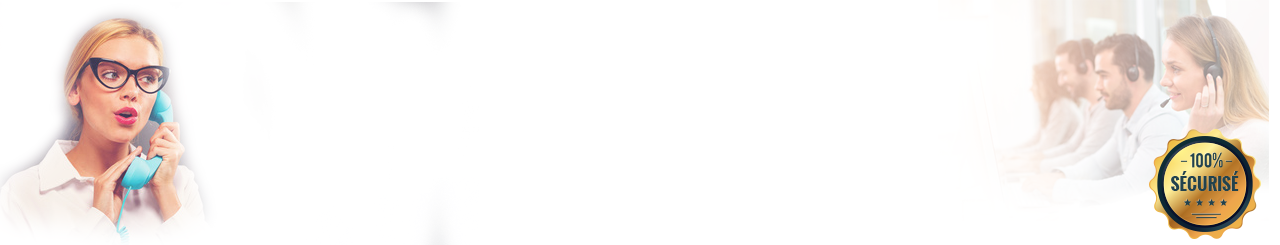
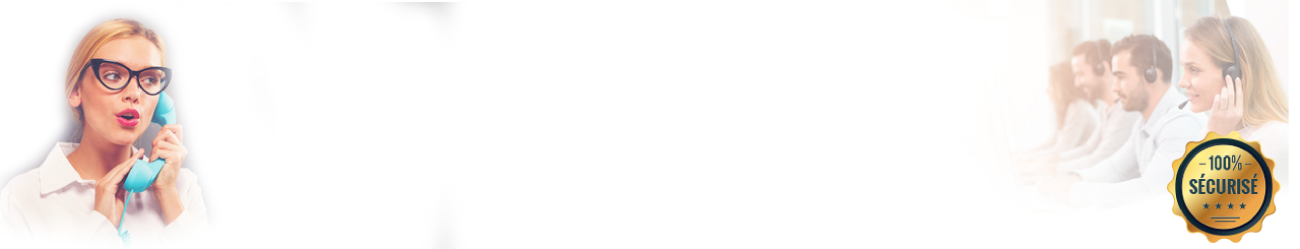
add flex slider + hotfix

diff --git a/css/rdv_web.css b/css/rdv_web.css
@@ -994,7 +994,7 @@ p.title-filled {
 }
 
 .header {
-    background: url(../images_landing/rdv/header.png) 0 0 no-repeat;
+    background: url(../images_landing/rdv/header.png) 15px 0 no-repeat;
     height: 240px;
     width: 100%;
     background-size: contain
@@ -1017,7 +1017,7 @@ p.title-filled {
 
 .avis {
     max-width: 1120px;
-    margin: 0px auto;
+    margin: 50px auto;
 }
 
 .avis p {
@@ -1027,7 +1027,8 @@ p.title-filled {
 }
 
 .avis img {
-    margin-left: 50px;
+    /*margin-left: 50px;*/
+    margin-left: 2em;
     max-width: 300px;
 }
 
@@ -1049,11 +1050,16 @@ p.title-filled {
     left: 20%;
 }
 
-.textItem,.imgItem {
+.textItem {
     position: absolute;
     display: none;
     padding-left: 15px;
 
+}
+
+.imgItem {
+    position: absolute;
+    padding-left: 15px;
 }
 
 .textItem.current,.imgItem.current {
@@ -1068,7 +1074,7 @@ p.title-filled {
 }
 
 .main-header {
-    max-width: 1224px;
+    max-width: 1271px;
     margin: 0 auto;
     width: 100%;
     clear: both;
@@ -1175,10 +1181,34 @@ select.form-control {
 .menu-rdv {
     background: #b83d56;
     padding: 10px;
+    margin-top: -8px;
 }
 
 .menu-content {
-    margin-left: 20%
+  text-align: center;
+}
+
+.menu-content a#tchat-online ,.menu-content a#tarot ,.menu-vm a{
+    color: #ffffff!important;
+}
+
+.menu-content a:hover,.menu-content a:active{
+    text-decoration: none!important;
+}
+
+.menu-vm a:hover,.menu-vm a:active {
+    text-decoration: none!important;
+    font-weight: bold!important;
+}
+
+.menu-content a#tchat-online:hover  span,.menu-content a#tchat-online:active span {
+    color: #ffffff!important;
+    text-decoration: none!important;
+}
+
+.menu-content a#tarot:hover span,.menu-content a#tarot:active span{
+    color: #ffffff!important;
+    text-decoration: none!important;
 }
 
 .menu-content span {
@@ -1195,7 +1225,7 @@ select.form-control {
 }
 
 .header-list {
-    margin-top: 15px;
+    margin-top: 25px;
 }
 
 .euro-min {
@@ -1208,7 +1238,7 @@ select.form-control {
 
 .euro {
     position: relative;
-    top: -8em;
+    top: -7em;
     left: -1em;
 }
 
@@ -1223,4 +1253,12 @@ select.form-control {
 .menuh-content .modal-header {
   padding: 0px!important;
   border-bottom: none!important;
+}
+
+/*********************SLIDER  *****/
+
+.splash-msg .flexslider {
+    background: none!important;
+    border: none!important;
+    margin: 0!important;
 }

diff --git a/js/rdv_web.js b/js/rdv_web.js
@@ -254,53 +254,21 @@ $(document).ready(function () {
         });
     });
 
+    $('.flexslider').flexslider({
+        animation: "slide",
+        directionNav: false,
+        controlNav: false,
+    });
 
-
-    setupRotator();
+    $("#tchat-online,#tarot").on("click",function () {
+     $(this).find("span").addClass("active").css("text-decoration","none");
+    });
 
     $("#close-btn").click(function () {
         $("#menuModal").modal("hide");
     });
 
 });
-
-function setupRotator()
-{
-    if($('.textItem').length > 1)
-    {
-        $('.textItem:first').addClass('current').hide().slideDown(500);
-        setInterval('textRotate()', 1000);
-        setInterval('imgAnim()', 1000);
-    }
-}
-
-function textRotate(){
-    var current = $('.text-rot > .current');
-    if(current.next().length == 0)
-    {
-        current.removeClass('current').slideUp(100);
-        $('.textItem:first').addClass('current').slideDown(500);
-    }
-    else
-    {
-        current.removeClass('current').slideUp(100);
-        current.next().addClass('current').hide().slideDown(500);
-    }
-}
-
-function imgAnim(){
-    var current = $('.img-rot > .current');
-    if(current.next().length == 0)
-    {
-        current.removeClass('current').slideUp(100);
-        $('.imgItem:first').addClass('current').slideDown(500);
-    }
-    else
-    {
-        current.removeClass('current').slideUp(100);
-        current.next().addClass('current').hide().slideDown(500);
-    }
-}
 
 
 

diff --git a/consultation-en-ligne-a.php b/consultation-en-ligne-a.php
@@ -47,13 +47,14 @@ $gclid = isset($_GET['gclid']) ? $_GET['gclid'] : '';
     <link href="rdv_web/css/bootstrap-datetimepicker.min_13.css" type="text/css"
           rel="stylesheet"/>
     <link href="rdv_web/css/additionnals_1.css" type="text/css" rel="stylesheet"/>
+    <link href="https://cdnjs.cloudflare.com/ajax/libs/flexslider/2.6.4/flexslider.min.css" type="text/css" rel="stylesheet"/>
 
     <!-----------------------end assets --------------------------------------------------------------------->
 
 </head>
 <body class="consultation-en-ligne">
 <div class="main-header">
-    <div class="header ">
+    <div class="header">
 
         <div class="header-content">
             <a href="www.myastro.fr">
@@ -64,7 +65,7 @@ $gclid = isset($_GET['gclid']) ? $_GET['gclid'] : '';
             <span class="header-txt" >
               &nbsp;&nbsp;&nbsp; &nbsp;&nbsp;&nbsp;&nbsp;&nbsp;&nbsp;&nbsp; &nbsp;&nbsp;&nbsp;&nbsp;&nbsp;&nbsp;&nbsp; &nbsp;&nbsp;&nbsp;&nbsp;&nbsp;&nbsp;&nbsp; &nbsp; Famille &nbsp;&nbsp;&nbsp; &nbsp;&nbsp;&nbsp;&nbsp; Argent </span>
 
-            <p class="header-list">
+            <ul class="header-list">
                 <li class="icone-recommanded"><span>Site 100% recommandé </span><p>
                 <li class="icone-consultation"><span>Consultation par telephone</span></li>
             </ul>
@@ -78,8 +79,8 @@ $gclid = isset($_GET['gclid']) ? $_GET['gclid'] : '';
     <div class="menu-rdv" >
         <div class="menu-content" >
         <a href="#"> <span class="active">PRENDRE RDV EN LIGNE</span></a>
-        <a href="#"><span>TCHAT EN LIGNE</span></a>
-        <a href="#"><span>TIRAGE DE TAROT</span></a>
+        <a href="#" id="tchat-online"><span>TCHAT EN LIGNE</span></a>
+        <a href="#" id="tarot"><span>TIRAGE DE TAROT</span></a>
         </div>
     </div>
 </div>
@@ -97,11 +98,8 @@ $gclid = isset($_GET['gclid']) ? $_GET['gclid'] : '';
                     <div class="img-rot euro">
 
                      <span class="imgItem">
-                      <img src="images_landing/rdv/euro-bis.png">  </span>
-                      <span class="imgItem">
-                      <img src="images_landing/rdv/euro-bis-2.png">
-                      </span>
-
+                       <img src="images_landing/rdv/piece-de-monnaie.gif">
+                     </span>
                      </div>
                 </div>
 
@@ -334,18 +332,20 @@ $gclid = isset($_GET['gclid']) ? $_GET['gclid'] : '';
 
 <div class="avis">
 
-    <div class="splash-content">
+   <div class="splash-content">
 
         <div class="splash-msg">
             <div class="info-img">
                 <img src="images_landing/rdv/info.png" alt=""/>
             </div>
-            <span class="text-rot">
-                            <span class="textItem">L’horaire c’est vous qui décidez !</span>
-                            <span class="textItem">Nous sommes là pour vous guider, et vous soutenir !</span>
-                            <span class="textItem">Des experts à votre écoute où que vous soyez</span>
-                            <span class="textItem">En toute confiance et confidentialité</span>
-            </span>
+            <div class="flexslider">
+                <ul class="slides">
+                    <li><span >L’horaire c’est vous qui décidez !</span></li>
+                    <li><span >Nous sommes là pour vous guider, et vous soutenir !</span></li>
+                    <li> <span >Des experts à votre écoute où que vous soyez</span></li>
+                    <li><span >En toute confiance et confidentialité</span></li>
+                </ul>
+            </div>
         </div>
     </div>
     <div class="img-bulle">
@@ -406,11 +406,11 @@ $gclid = isset($_GET['gclid']) ? $_GET['gclid'] : '';
                 <a id="close-btn" href="#" class="close" data-dismiss="modal" aria-label="close">&times;</a>
 
                 <div class="menu-vm-content" >
-                    <div class="menu-vm" ><a href="#"> <span >PRENDRE RDV EN LIGNE</span></a></div>
+                    <div class="menu-vm" class="active"><a href="#"> <span >PRENDRE RDV EN LIGNE</span></a></div>
                     <hr>
-                    <div class="menu-vm"><a href="#"><span>TCHAT EN LIGNE</span></a></div>
+                    <div class="menu-vm" ><a id="tchat-online" href="#"><span>TCHAT EN LIGNE</span></a></div>
                     <hr>
-                    <div class="menu-vm" > <a href="#"><span>TIRAGE DE TAROT</span></a></div>
+                    <div class="menu-vm" > <a id="tarot" href="#"><span>TIRAGE DE TAROT</span></a></div>
                 </div>
             </div>
 
@@ -446,6 +446,8 @@ $gclid = isset($_GET['gclid']) ? $_GET['gclid'] : '';
 <script src="js/formValidator.js"></script>
 <!-- jQuery easing plugin -->
 <script src="js/jquery.easing.min.js" type="text/javascript"></script>
+<script src="https://cdnjs.cloudflare.com/ajax/libs/flexslider/2.6.4/jquery.flexslider-min.js"></script>
+
 <script src="js/rdv_web.js"></script>
 
 <!-- js scripts kgestion for displaying planning -->
